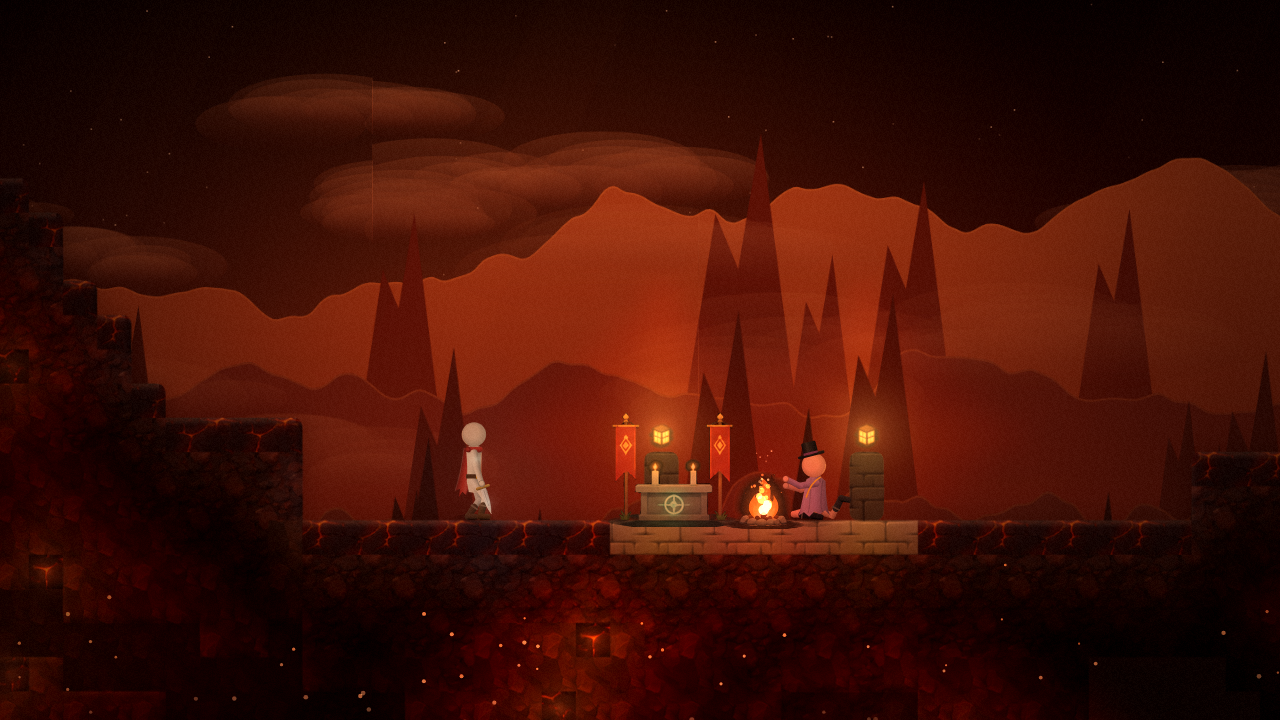
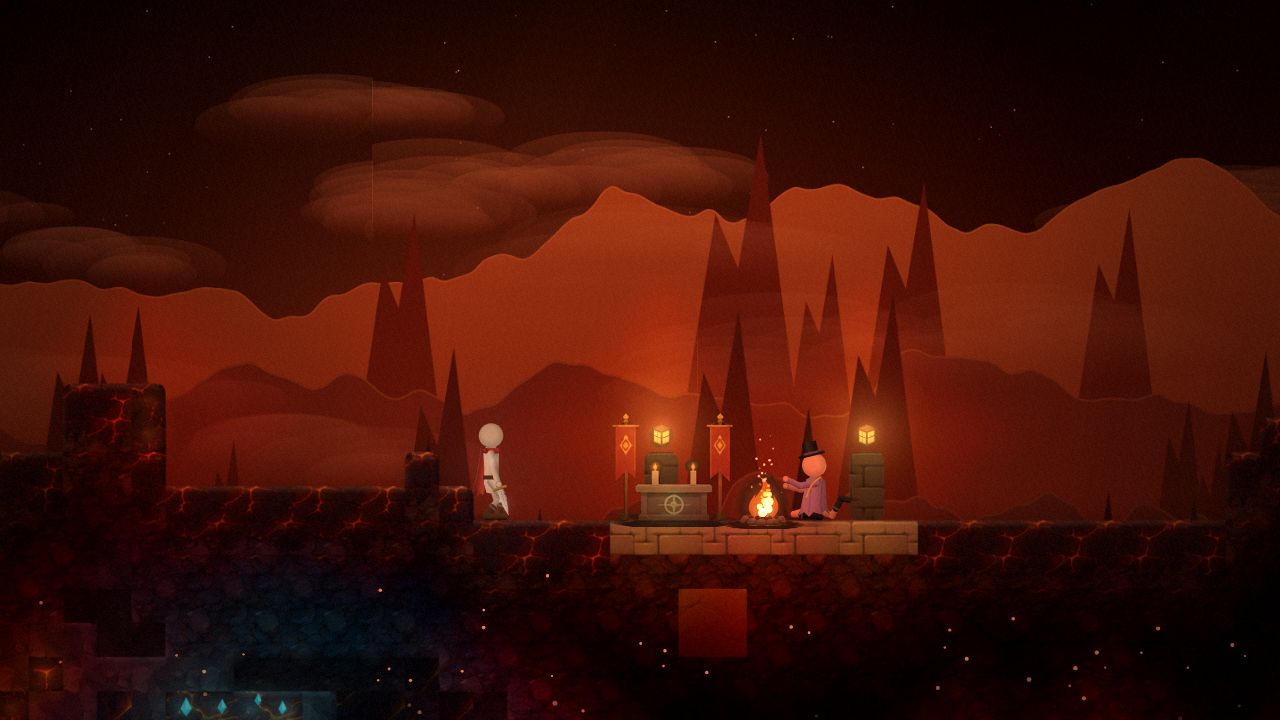
On Two Feet: rename, in-game Terms & Privacy, art request sheet, walkable cave mouths, test updates
- Title is now On Two Feet (save key unchanged, progress kept)
- Terms & Privacy page in Settings (plain text, no outside links; a template to review)
- art/sheets/requests.png: every code-painted placeholder with its target size
- Cave-mouth floors start level with the ground and step down a block at a time; no ravines in the
  first stretch
- Playthrough bot crafts in the satchel and pillars out of pits; new scenarios: bag, climb, doll, mouth
- README: satchel, crafting, parts, world, terms, tests

Claude-Session: https://claude.ai/code/session_01XKnRKbjd3Wa5EXuRoQ6FVp

diff --git a/tools/sheets.js b/tools/sheets.js
@@ -15,6 +15,7 @@ import { drawChest, drawStitch, drawNest } from '../js/game/content.js';
 import { texture, grassLip, snowLip } from '../js/art/tex.js';
 import { BIOMES, T, TILES } from '../js/world/tiles.js';
 import { loadImages, setBase, IMG, drawSprite, TILE_ICON } from '../js/art/images.js';
+import { drawPart, drawItemIcon } from '../js/art/itemart.js';
 
 const fakeWorld = {
   get(tx, ty) { return ty >= 0 ? 3 : 0; },
@@ -224,6 +225,50 @@ function assets() {
   fx.forEach(([n, fn], i) => { const x = 180 + i * 330, y = 1240; fn(x, y); label(g, x, y + 110, n); });
 }
 
+// ---------------------------------------------------------------- requests: art to be hand-painted
+function requests() {
+  const W = 2400, H = 1720;
+  const g = board('requests', W, H, 'Art requests', 'paint these to replace the placeholders: same style as your sheets, transparent PNG, one per slot');
+  const slot = (x, y, w, h, name, size, note, draw) => {
+    g.save();
+    g.fillStyle = 'rgba(255,255,255,.03)'; g.beginPath(); g.roundRect(x, y, w, h, 16); g.fill();
+    g.setLineDash([6, 6]); g.strokeStyle = 'rgba(255,240,220,.25)'; g.lineWidth = 1.5; g.beginPath(); g.roundRect(x, y, w, h, 16); g.stroke(); g.setLineDash([]);
+    g.restore();
+    g.save(); g.beginPath(); g.rect(x, y, w, h - 54); g.clip(); draw(x + w / 2, y + (h - 54) / 2 + 6); g.restore();
+    label(g, x + w / 2, y + h - 30, name, size + (note ? ' · ' + note : ''));
+  };
+  const part = (t, k = 3.2, two) => (cx, cy) => { g.save(); g.translate(cx - 16 * k, cy - (two ? 32 : 16) * k); g.scale(k, k); if (two) { drawPart(g, t, 0, 0, (dx, dy) => (dy === 1 ? t : 0)); drawPart(g, t, 0, 32, (dx, dy) => (dy === -1 ? t : 0)); } else drawPart(g, t, 0, 0, (dx, dy) => (dy === 1 ? 1 : 0)); g.restore(); };
+  const icon = (id) => (cx, cy) => drawItemIcon(g, id, cx, cy, 120);
+  section(g, 60, 196, 'Characters and world');
+  const sv = newSave(3); const doll = lookFromSave(sv); doll.blade = null;
+  slot(60, 220, 420, 300, 'Sleeping doll', '256 x 160', 'curled on its side, on moss', (cx, cy) => drawFigure(g, cx - 20, cy + 50, doll, 2.2, { st: { mode: 'sleep' }, ticks: 240 }, { blade: false }));
+  slot(500, 220, 420, 300, 'Turf into soil', '128 x 128 per biome', 'seamless, grass top fading into soil', (cx, cy) => {
+    const a = IMG['tex/meadow_groundA'], b = IMG['tex/meadow_groundB'];
+    if (b) g.drawImage(b, cx - 96, cy - 96, 192, 192);
+    if (a) { g.save(); g.beginPath(); g.moveTo(cx - 96, cy - 96); g.lineTo(cx + 96, cy - 96); for (let i = 8; i >= 0; i--) g.lineTo(cx - 96 + i * 24, cy - 40 + Math.sin(i * 2.1) * 14); g.closePath(); g.clip(); g.drawImage(a, cx - 96, cy - 96, 192, 192); g.restore(); }
+  });
+  slot(940, 220, 420, 300, 'Cave mouth', '256 x 256', 'arched opening edge, any biome', (cx, cy) => {
+    g.fillStyle = '#2a2430'; g.beginPath(); g.ellipse(cx, cy + 40, 110, 90, 0, Math.PI, 0); g.fill();
+    g.fillStyle = 'rgba(243,236,224,.35)'; g.font = 'italic 18px Cormorant'; g.textAlign = 'center'; g.fillText('currently: plain carved tiles', cx, cy + 90);
+  });
+  slot(1380, 220, 420, 300, 'Hollow nest', '256 x 200', 'thorned mound with a glowing heart', (cx, cy) => { g.save(); g.translate(cx, cy + 60); g.scale(1.6, 1.6); drawNest(g, 0, 0, 1, 0); g.restore(); });
+  slot(1820, 220, 520, 300, 'Satchel', '256 x 200', 'open leather bag (UI and on the doll)', (cx, cy) => {
+    g.fillStyle = '#6e523b'; g.beginPath(); g.roundRect(cx - 80, cy - 30, 160, 100, [14, 14, 30, 30]); g.fill();
+    g.fillStyle = '#8a6a4c'; g.beginPath(); g.moveTo(cx - 80, cy - 30); g.quadraticCurveTo(cx, cy - 90, cx + 80, cy - 30); g.fill();
+  });
+  section(g, 60, 586, 'Building parts and stations');
+  const parts = [[T.LADDER, 'Ladder', '64 x 64 tile'], [T.PLATFORM, 'Platform', '64 x 64 tile'], [T.TORCH, 'Torch', '64 x 64'], [T.DOOR, 'Door', '64 x 128', true], [T.STEP, 'Step', '64 x 64'], [T.STORE, 'Storage chest', '64 x 64'], [T.BENCH, 'Workbench', '64 x 64'], [T.FORGE, 'Forge', '64 x 64'], [T.LOOM, 'Loom', '64 x 64']];
+  parts.forEach(([t, n, sz, two], i) => slot(60 + i * 254, 610, 236, 330, n, sz, '', part(t, two ? 2.6 : 3.6, two)));
+  section(g, 60, 1006, 'Items and gear');
+  const items = [['i_draught', 'Mending draught'], ['i_flare', 'Flare'], ['i_charge', 'Blast charge'], ['g_lamp', "Miner's lamp"], ['g_pick_gilt', 'Gilt pick'], ['g_pick_crystal', 'Crystal pick'], ['g_charm_thread', 'Thread charm'], ['g_charm_ember', 'Ember charm']];
+  items.forEach(([id, n], i) => slot(60 + i * 286, 1030, 266, 280, n, '128 x 128 icon', '', icon(id)));
+  section(g, 60, 1376, 'Interface');
+  slot(60, 1400, 520, 270, 'Item slot frame', '96 x 96, 9-slice', 'empty, hover, selected', (cx, cy) => { for (let i = 0; i < 3; i++) { g.strokeStyle = ['rgba(255,240,220,.25)', 'rgba(255,217,160,.6)', '#9ff3ff'][i]; g.lineWidth = 2; g.beginPath(); g.roundRect(cx - 190 + i * 130, cy - 50, 100, 100, 16); g.stroke(); } });
+  slot(600, 1400, 520, 270, 'Crafting ring', '256 x 256', 'the circle the result appears in', (cx, cy) => { g.strokeStyle = 'rgba(255,217,160,.5)'; g.lineWidth = 2; g.beginPath(); g.arc(cx, cy, 80, 0, TAU); g.stroke(); g.setLineDash([5, 6]); g.beginPath(); g.arc(cx, cy, 94, 0, TAU); g.stroke(); g.setLineDash([]); });
+  slot(1140, 1400, 520, 270, 'Panel backdrop', '9-slice', 'satchel and crafting panels', (cx, cy) => { g.fillStyle = 'rgba(20,17,26,.9)'; g.strokeStyle = 'rgba(255,244,228,.14)'; g.beginPath(); g.roundRect(cx - 200, cy - 80, 400, 160, 18); g.fill(); g.stroke(); });
+  slot(1680, 1400, 660, 270, 'Touch buttons', '160 x 160 each', 'Strike, Jump, Dash, Mend, Build, Bag, Talk', (cx, cy) => { for (let i = 0; i < 5; i++) { g.strokeStyle = 'rgba(255,240,220,.4)'; g.lineWidth = 2; g.beginPath(); g.arc(cx - 240 + i * 120, cy, 46, 0, TAU); g.stroke(); } });
+}
+
 setBase('../assets/');
 const loadImg = (src) => new Promise(r => { const i = new Image(); i.onload = () => r(i); i.onerror = () => r(null); i.src = src; });
 Promise.all(['meadow', 'glass', 'hollow', 'ember', 'frost', 'shrine'].map(id => loadImg('../art/sheets/scenes/' + id + '.png').then(i => [id, i])))
@@ -231,5 +276,6 @@ Promise.all(['meadow', 'glass', 'hollow', 'ember', 'frost', 'shrine'].map(id => 
   try { characters(); } catch (e) { console.error('characters', e.stack); }
   try { maps(); } catch (e) { console.error('maps', e.stack); }
   try { assets(); } catch (e) { console.error('assets', e.stack); }
+  try { requests(); } catch (e) { console.error('requests', e.stack); }
   window.__sheetsDone = true;
 });

diff --git a/js/ui/ui.js b/js/ui/ui.js
@@ -516,8 +516,24 @@ export class UI {
       else { wipe.dataset.sure = 1; wipe.textContent = 'Erase everything? Tap again'; }
     };
     c2.appendChild(wipe);
+    const terms = el('button', 'mini-btn', 'Terms & Privacy');
+    terms.style.marginTop = '12px'; terms.style.marginLeft = '8px';
+    terms.onclick = () => this.showTerms();
+    c2.appendChild(terms);
     row.appendChild(c2);
     body.appendChild(row);
+  }
+  // in-game terms of use and privacy notice (plain text; no outside links). A template for the owner to
+  // review and adapt; it is not legal advice.
+  showTerms() {
+    const body = $('#menu .menu-body');
+    body.innerHTML = '';
+    const back = el('button', 'mini-btn', 'Back to settings');
+    back.onclick = () => this.renderMenu();
+    body.appendChild(back);
+    const t = el('div', 'terms');
+    t.innerHTML = TERMS_HTML;
+    body.appendChild(t);
   }
   tab_controls(body) {
     const rows = [
@@ -618,4 +634,22 @@ export class UI {
     if (g.net && g.net.active) g.net.sendEmote(list[this.emoteI]);
   }
 }
+const TERMS_HTML = `
+<h3>On Two Feet: Terms of Use</h3>
+<p>Last updated: November 2026. By playing On Two Feet ("the game") you agree to these terms. If you do not agree, please do not play.</p>
+<p><b>Using the game.</b> The game is provided for personal, non-commercial entertainment. Please do not cheat, exploit bugs to harm other players, disrupt multiplayer sessions, or try to access parts of the game or its services you are not meant to.</p>
+<p><b>Playing with others.</b> Multiplayer has no text chat; players meet through emotes and play together. Be kind. Do not use names or behaviour that harass, threaten or impersonate others. Hosts can end a session at any time.</p>
+<p><b>Your creations.</b> What you build in your world is yours to enjoy. When you host or join a shared world, other players can see and change what is built there.</p>
+<p><b>Availability.</b> The game is provided "as is" and may change, pause or end at any time. Saved progress can be lost (for example if browser data is cleared). We are not liable for lost progress or for damages arising from use of the game, to the extent the law allows.</p>
+<p><b>Platform.</b> When you play on CrazyGames, the CrazyGames terms and privacy policy also apply, including to accounts, ads and payments they provide.</p>
+<h3>Privacy</h3>
+<p><b>What the game stores.</b> Your save (world edits, progress, settings and your doll's look) is stored by the CrazyGames data service when available, otherwise in your browser's local storage on this device. It contains no personal information. You can erase it at any time with "Start a new life".</p>
+<p><b>Accounts.</b> If you are signed in to CrazyGames, the game may read your public username to show it above your doll. It does not receive your email or password.</p>
+<p><b>Multiplayer.</b> Playing together uses direct peer-to-peer connections (WebRTC) set up through a connection broker. To connect, your network address is shared with the players in your session and with the broker. The game sends your doll's movement, emotes, look and block edits to those players and nothing else.</p>
+<p><b>Ads.</b> Ads are served by CrazyGames. Rewarded ads only ever play when you choose them. Ad providers may collect data under the CrazyGames privacy policy and your consent choices there.</p>
+<p><b>Children.</b> The game does not knowingly collect personal information from anyone, including children.</p>
+<p><b>Contact.</b> Questions about these terms or your data can be sent through the game's page on CrazyGames.</p>
+<h3>Credits</h3>
+<p>Fonts: Cormorant Garamond and Manrope (SIL Open Font License). Networking: PeerJS (MIT). All other art, music and code were made for this game.</p>
+`;
 export { esc };

diff --git a/js/world/world.js b/js/world/world.js
@@ -181,6 +181,7 @@ export class World {
       const g = gateNear(mx);
       if (Math.abs(mx - g.gx) < ARENA_HALF + 10 || this.shrineNear(mx) !== null) continue;
       if (r > 0.86) {
+        if (Math.abs(mx) < BIOME_W / 2 + 20) continue;   // no sheer drops in the first stretch
         // ravine: narrow, tapering, 14-24 deep
         const depth = 14 + Math.floor(hash2(kk, 53, s) * 10), w = 1.6 + hash2(kk, 54, s);
         const dd = ty - this.col(mx).h;
@@ -190,9 +191,11 @@ export class World {
       const dir = hash2(kk, 55, s) < 0.5 ? -1 : 1, len = 18 + Math.floor(hash2(kk, 56, s) * 14);
       const u = (tx - mx) * dir;
       if (u < 0 || u > len) continue;
+      // the floor starts level with the ground and drops at most a block per column, so you can always
+      // walk back up and out
       const top = this.col(mx).h;
-      const cy = top - 1 + u * 0.62 + Math.sin(u * 0.35 + kk) * 0.8;
-      const half = 1.6 + (u < 3 ? 0.6 : 0) + Math.sin(u * 0.5 + kk * 3) * 0.3;
+      const half = 1.6;
+      const cy = top - half + u * 0.62 + Math.sin(u * 0.35 + kk) * 0.25;
       // an open sloped cut until the roof would be thick enough, then a tunnel (no thin slivers of turf)
       const roof = (cy - half) - this.col(tx).h;
       if (roof < 2.8 ? (ty >= this.col(tx).h - 1 && ty <= cy + half) : (ty >= cy - half && ty <= cy + half)) return true;

diff --git a/js/game/story.js b/js/game/story.js
@@ -217,7 +217,7 @@ export class Story {
         this.say('You stood. Nobody stands anymore.', 3);
         // far away, a warden hears it
         setTimeoutGame(g, 1.4, () => { Audio.play('roar', { vol: 0.55, pitch: 0.65 }); g.shake(0.35); this.roared = g.time; });
-        setTimeoutGame(g, 1.8, () => { this.card('Own Two Feet', 'the last doll walks', '', 4.4); Audio.play('chime'); g.cam.override = null; g.cam.zoomT = 0.85; });
+        setTimeoutGame(g, 1.8, () => { this.card('On Two Feet', 'the last doll walks', '', 4.4); Audio.play('chime'); g.cam.override = null; g.cam.zoomT = 0.85; });
         setTimeoutGame(g, 4.6, () => { ui.letterbox(false); ui.hud(true); g.cinematic = false; g.cam.zoomT = 1; this.say('Let me show you how to walk this world.', 3.2); });
         setTimeoutGame(g, 5.4, () => { this.stage = 5; this.sv.born = true; this.sv.obj = 0; g.saveNow(); Platform.gameplayStart(); });
       }

diff --git a/index.html b/index.html
@@ -3,7 +3,7 @@
 <head>
 <meta charset="utf-8">
 <meta name="viewport" content="width=device-width, initial-scale=1, maximum-scale=1, user-scalable=no, viewport-fit=cover">
-<title>Own Two Feet</title>
+<title>On Two Feet</title>
 <meta name="description" content="Be born. Learn to stand. Make an endless world your own.">
 <link rel="stylesheet" href="css/style.css">
 <script src="https://sdk.crazygames.com/crazygames-sdk-v3.js" async onerror="window.__cgFail=1"></script>
@@ -40,7 +40,7 @@
   <div id="fade"></div>
   <div id="menu" class="hidden">
     <div class="panel">
-      <div class="menu-head"><div class="logo">Own Two Feet</div><div class="tabs"></div></div>
+      <div class="menu-head"><div class="logo">On Two Feet</div><div class="tabs"></div></div>
       <div class="menu-body"></div>
     </div>
   </div>

diff --git a/js/game/content.js b/js/game/content.js
@@ -27,7 +27,7 @@ export const LORE = [
   'Embers are the last warm thing she touched. They have not cooled since.',
   'In the Frost Spires the wind stopped to listen for her footsteps. It is still listening.',
   'Some say the world has no edge. Others say she never finished the hem.',
-  'A doll on its own two feet frightens the Wardens. It means the stitch held.',
+  'A doll back on two feet frightens the Wardens. It means the stitch held.',
   'Every gate holds a piece of her light. Put them back together and you might see her face.',
   'Thread is not a moth. Thread is the last thing she said.',
   'If you are reading this, you were made with care. Keep walking.',

diff --git a/css/style.css b/css/style.css
@@ -355,3 +355,8 @@ body.bag-open #hotbar, body.bag-open #objective, body.bag-open #tut, body.bag-op
 }
 
 body.carding #tut { opacity: 0; transition: opacity .3s; }
+
+.terms { max-width: 720px; margin-top: 14px; font-size: 13px; line-height: 1.6; color: var(--dim); overflow-y: auto; }
+.terms h3 { font-family: 'Cormorant Garamond', serif; font-weight: 500; font-size: 22px; color: var(--text); margin: 18px 0 6px; }
+.terms b { color: var(--text); }
+.terms p { margin: 0 0 10px; }

diff --git a/js/art/paint.js b/js/art/paint.js
@@ -1,5 +1,5 @@
 /* ============================================================================
-   ART BIBLE — Own Two Feet
+   ART BIBLE — On Two Feet
    Style family: painterly gradient + soft-shaded vector ("lantern-lit storybook").
      No outlines. Form comes from cylindrical gradients, rim light, contact AO and
      material texture. Backgrounds recede through fog; gameplay owns the value extremes.

diff --git a/tools/sheets.html b/tools/sheets.html
@@ -6,5 +6,6 @@
 <canvas id="characters"></canvas>
 <canvas id="maps"></canvas>
 <canvas id="assets"></canvas>
+<canvas id="requests"></canvas>
 <script type="module" src="sheets.js"></script>
 </body></html>

diff --git a/README.md b/README.md
@@ -1,4 +1,4 @@
-# Own Two Feet
+# On Two Feet
 
 An open-world, cinematic 2D sandbox. You are a ragdoll that falls out of the sky as a seed of light, learns to stand, and then makes an endless world its own: you dig and build, meet the people who keep its shrines, raise a home, and walk through gate after gate held by stronger and stronger wardens. Every warden you beat leaves a mark on your body, so no two players end up looking alike.
 
@@ -34,16 +34,31 @@ Returning players drop straight back where they were. Esc skips the opening.
 | J, left click | Strike. Hold up or down to aim (down in the air bounces off enemies) |
 | Hold left click on a block | Break it (only blocks you can see; with an enemy close, a click strikes instead). Cutting a trunk fells the whole tree for timber |
 | Right click | Place the chosen block: a ghost shows where it goes, red when it can't (with the reason on click). Click a block's face to build onto it, hold and drag to lay a line. Shift places a back wall |
-| 1-9, mouse wheel | Choose a block |
+| 1-9, mouse wheel | Choose what's in hand (blocks, parts, flares, draughts) |
+| R | Use what's in hand (throw a flare or charge toward the pointer, drink a draught); right click works too |
 | B | Build mode for keyboard and gamepad (Strike mines, E places) |
-| E | Talk, rest, take |
+| E | Talk, rest, take, open doors and chests, use a station |
 | Hold H | Spend breath to mend a vessel |
-| Q | Craft |
+| I, Tab | Open the satchel (inventory) |
+| Q | Open the satchel on the crafting book |
+| W / S on a ladder | Climb; hold S on a platform to drop through |
 | T | Emote (others see it in multiplayer) |
 | M | Mute |
 | Esc | Menu |
 
 Gamepad and touch are supported. Phones get a floating stick that appears wherever the left thumb lands, large thumb-sized buttons arranged in an arc (Strike biggest, then Jump, Dash, Mend, Build), sized from the screen so they stay comfortable on any phone, haptic ticks, and a contextual action button (Talk, Rest, Open, Wake, Read) that appears only when there is something to use. Build mode: hold a block to dig it, touch open space to place, drag to dig or lay a whole line.
+
+## The satchel: inventory and crafting
+
+Press I (or the Bag button on touch) and the game becomes a small cutscene: time slows, the camera leans in, the world dims and the doll sits down and opens its bag. Everything you carry is on the left, sorted into Blocks, Parts, Use and Gear, with three worn slots (lamp, pick, charm) and the hotbar underneath (drag items onto it, or tap an item then a slot). The crafting book is on the right.
+
+- **Where you craft.** Simple things by hand anywhere (planks, ladders, platforms, torches, steps, bricks, a Workbench). The rest needs a station within a few blocks: a **Workbench** (doors, storage chests, lanterns, flares, hearths, and the other stations), a **Forge** (glass, nightglass, blast charges, picks, the miner's lamp) or a **Loom** (draughts, charms). A shrine's fire counts as a workbench.
+- **Crafting** is a little ceremony: the ingredients fly into a ring, it turns and flashes, and the result drops into the satchel. Hold the button to make several.
+- **Building parts:** ladders (climb, step off at the top), one-way platforms (jump up through, hold down to drop), torches, two-high doors (open and close with E), half steps, storage chests (their contents stay where you built them).
+- **Consumables:** mending draughts, flares (thrown, a strong light for twenty seconds) and blast charges (thrown, break the blocks around them and knock Hollows flying; the pieces come back to you).
+- **Gear,** shown on the doll: a miner's lamp (wider light), gilt and crystal picks (much faster mining), the thread charm (breath fills twice as fast) and the ember charm (your dash cuts Hollows).
+
+Nothing attacks while the satchel, a dialog or a cutscene is open.
 
 ## The ragdoll: new physics
 
@@ -58,6 +73,7 @@ The character keeps the look of the Rag Toss and Rag Showdown mannequin (cream b
 
 ## The world
 
+- **Ground you can read.** Thick, uneven topsoil (the soil line rolls with the land, pockets reach into the rock, thin strata below), grass roots hanging into the soil, and sloped **cave mouths** and ravines every so often so the caves can be walked into.
 - **Endless and seeded** (`js/world/world.js`). Generated per 32x32 chunk, in both directions and downward without end. Caves, floating islands, crystal pillars, ice spikes, ember vents, ore veins, sand pockets, and each biome's painted tree from the materials sheet (round crowns, glass trees, giant mushrooms, dead trees, pines) leaning in the wind and away from anyone brushing past. Only your edits are saved; everything else regenerates identically.
 - **Five biomes** that cycle with distance and darken with each loop: the Pale Meadow, the Glass Wood, the Hollow Below, the Ember Reach and the Frost Spires. Each has its own palette, parallax silhouettes, ambient particles, colour grade and generative score.
 - **Boss gates.** Every boundary between biomes is an arena held by a warden. Three archetypes with stronger variants: the Hollow Warden and the Pyre Knight (giant ragdolls: slam waves, wall-stunning charges, leaps), the Glass Widow and the Still Queen (flying ragdolls: volleys, dives, summons, rings, icefall), and the Unmade Heart (a core wrapped in torn-up blocks: throws, pound, spin). Tier scales health and adds patterns; a second phase starts at half health.
@@ -80,14 +96,16 @@ The painted art comes from hand-made reference sheets, cut up by `tools/extract_
 - `assets/props/`: shrine, campfire, blade in stone, hearth, lantern, gate banner, seed of light, with the sheet background removed.
 - `assets/icons/`: block icons, vessels, glimmer, relic medallions.
 - `assets/fx/`: slash, hit spark, shockwave, soul glimmer, dust, thread trail.
-- `assets/trees/`: the five flora sprites, cut with their cast shadow and halo removed.
+- `assets/trees/`: the five flora sprites, cut by a flood fill from the border (shadow and halo removed, clean edges).
+
+In the world, sheet sprites are colour graded per biome (`gradedImg` in `js/art/images.js`) so they sit in its light. Crafted parts, stations and item icons are painted in code for now (`js/art/itemart.js`); `art/sheets/requests.png` lists every one of them with its target size, ready to be replaced by hand-painted art.
 
 `js/art/images.js` loads them (pattern fills for tiles, sprites for props and icons). Characters are drawn in code to match the character reference (`js/art/doll.js`), matte with blank faces: round heads, scarves, belts and boots, cloaks and hoods, painted with soft shading and no outlines. Anything not on the sheets is still generated in code from the art bible (`js/art/paint.js`): key light from the upper left, rim light from behind.
 
 - `js/art/tex.js`, `js/art/props.js`: code-drawn fallbacks used if an image fails to load.
 - `js/art/bg.js`: painted parallax flats with rim light and haze, cloud banks, and one sky set piece per biome (floating isles, glowing crystal spires, a stone sky, a smoking volcano, an aurora).
 
-The asset sheets in `art/sheets/` are rendered from that same code (so they always match the game): `characters.png`, `maps.png` (materials and in-game captures of every biome) and `assets.png` (props, items, interface, effects). Rebuild them with `node tools/sheets.mjs`.
+The asset sheets in `art/sheets/` are rendered from that same code (so they always match the game): `characters.png`, `maps.png` (materials and in-game captures of every biome), `assets.png` (props, items, interface, effects) and `requests.png` (art still wanted). Rebuild them with `node tools/sheets.mjs`.
 
 ## Look and feel
 
@@ -118,6 +136,8 @@ Ads (`ad.requestAd`):
 - **Midgame, at a natural break.** Only while waking at a shrine after a fall (the screen is already dark), never in the first 3 minutes, at most once every 3 minutes, never while other players share your world.
 - While any ad plays the game is paused and silent, `gameplayStop` is sent, and everything is restored afterwards. A lost callback can't hang the game (90 s guard).
 
+**Terms & Privacy** are shown in game (Menu, Settings, Terms & Privacy) as plain text with no outside links: use terms, what is stored and where, what peer-to-peer multiplayer shares, and that ads come from CrazyGames. It's a template to review before release, not legal advice.
+
 `tools/cg-mock.js` stands in for the SDK in tests (`node tools/shot.mjs sdk --cg` checks the whole flow).
 
 ## Project layout
@@ -132,9 +152,10 @@ js/world/               tiles.js (tiles, biomes), world.js (generation, chunks, 
 js/game/                game.js (loop, camera, render pipeline), actor.js, player.js, enemies.js,
                         bosses.js, npcs.js (shrines, keepers, favours, home), content.js (dolls, chests,
                         lore, nests, Threads of Light), story.js (cinematics, tutorial, goals), thread.js,
+                        items.js (items, recipes, stations), parts.js (doors, chests, stations), throwables.js,
                         progress.js (save, cosmetics, relics, recipes), fx.js
 js/art/                 images.js (sheet art loader), doll.js (characters), bg.js, paint.js, tex.js, props.js
-js/ui/                  ui.js (HUD, tutorial, journal, cards, dialog, menus, editor), touch.js
+js/ui/                  ui.js (HUD, tutorial, journal, cards, dialog, menus, editor, terms), bag.js (satchel), touch.js
 assets/tex, props, icons, fx   art cut from the reference sheets
 js/net/net.js           multiplayer
 vendor/peerjs.min.js    PeerJS 1.5.4 (MIT)
@@ -149,6 +170,10 @@ tools/                  headless test harness, extract_assets.py (sheet cutter)
 ```bash
 node tools/play.mjs 480        # 8 minutes of play
 node tools/shot.mjs film       # frame-by-frame filmstrip of walk, run, jump, strike, dash
+node tools/shot.mjs bag        # satchel: craft by hand and at a workbench, drink, wear gear, climb a ladder
+node tools/shot.mjs climb      # a Hollow follows you up ledges of 2, 3, 4 and 5 blocks
+node tools/shot.mjs doll       # a lost doll sleeps, then wakes, stands, stretches and waves
+node tools/shot.mjs mouth      # visit a cave mouth
 node tools/shot.mjs sdk --cg   # CrazyGames SDK flow against the mock
 ```
 
